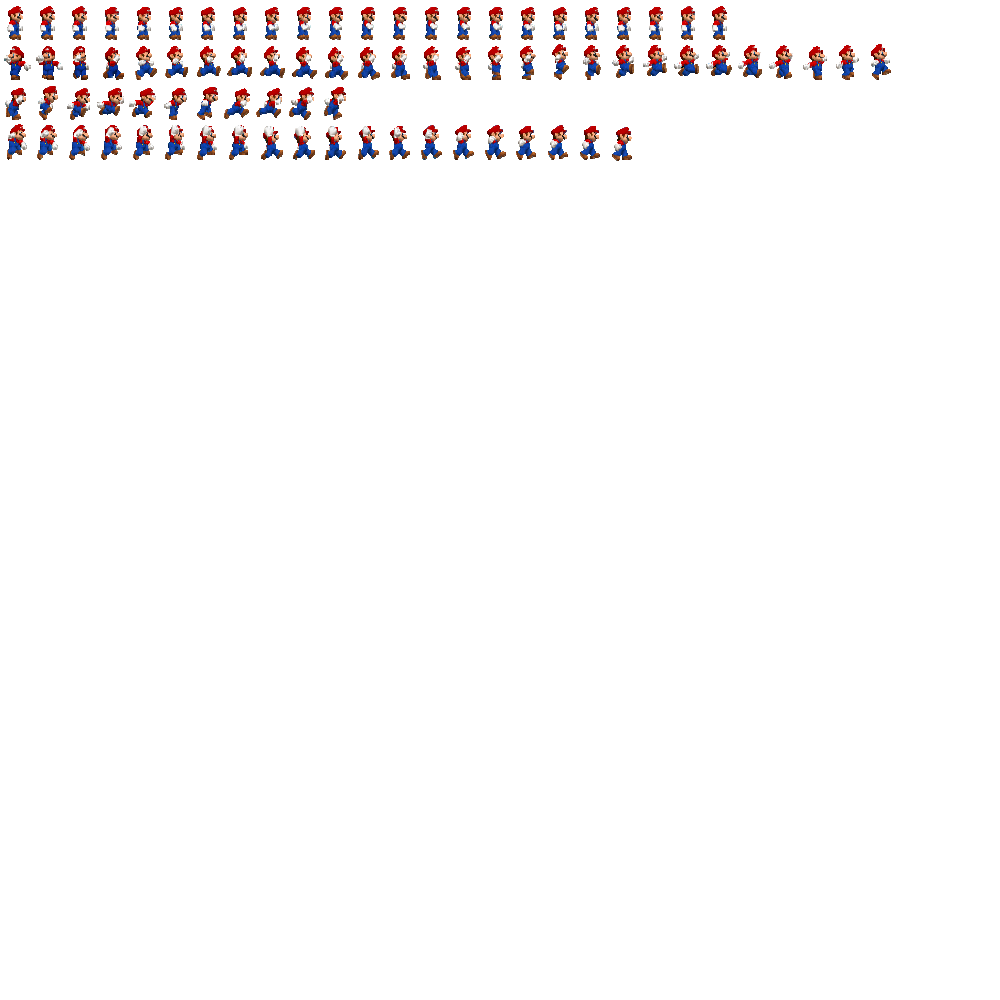
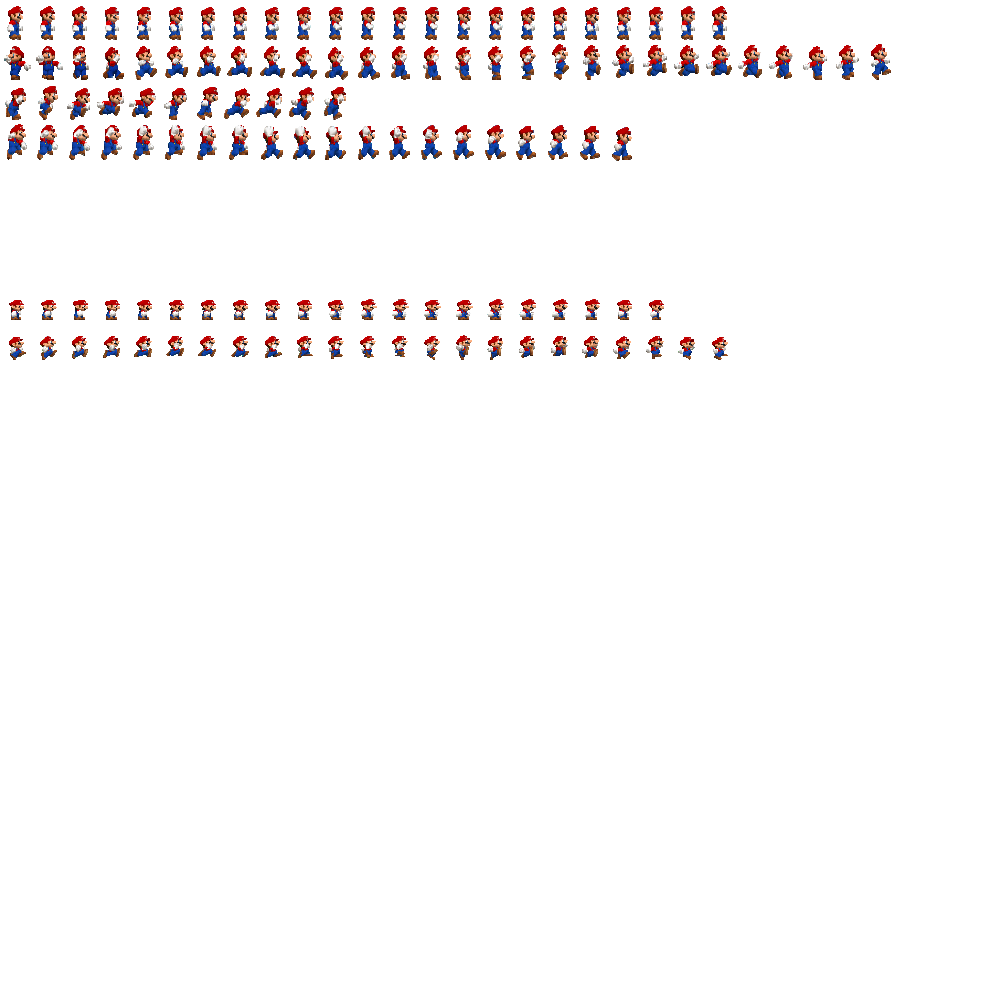
small mario

Changed region(s): [[0.0, 0.279, 0.744, 0.372]]

diff --git a/newSuperMario/Main_state.py b/newSuperMario/Main_state.py
@@ -44,6 +44,8 @@ class hero:
     t = 0.0
     ga = 0.1
     size = [64, 80]
+    grow = 0
+
 
     def __init__(self,x, y):
         self.x = x
@@ -63,31 +65,62 @@ class hero:
 
 
                     # 프레임
-        if self.framedir == 0:
-            if self.fs == fs_deel:
-                self.frame = self.frame + 1
-            if self.status != 0:
-                if self.frame > 19:
-                    self.frame = 19
+        if self.grow == 1:
+            if self.framedir == 0:
+                if self.fs == fs_deel:
+                    self.frame = self.frame + 1
+                if self.status != 0:
+                    if self.frame > 19:
+                        self.frame = 19
 
-            elif self.dir == -1 or self.dir == 1:  # 나머지 프레임
-                if self.frame > 10 and self.xspeed == 3.0:
+                elif self.dir == -1 or self.dir == 1:  # 나머지 프레임
+                    if self.frame > 10 and self.xspeed == 3.0:
+                        self.frame = 0
+                        self.framedir = 0
+
+                    if self.frame > 27:
+                        self.frame = 4
+                        self.framedir = 0
+                elif self.dir == 0 and self.status == 0:
+                    if self.frame > 22:  # 정지 프레임
+                        self.frame = 22
+                        self.framedir = 1
+            else:
+                if self.fs == fs_deel:
+                    self.frame = self.frame - 1
+                if self.frame <= 0:
+                    self.frame = 0
+                    self.framedir = 0
+        elif self.grow == 0:
+            if self.framedir == 0:
+                if self.fs == fs_deel:
+                    self.frame = self.frame + 1
+                if self.status != 0:
+                    if self.frame > 19:
+                        self.frame = 19
+
+                elif self.dir == -1 or self.dir == 1:  # 나머지 프레임
+                    if self.frame > 10 and self.xspeed == 3.0:
+                        self.frame = 0
+                        self.framedir = 0
+
+                    if self.frame > 27:
+                        self.frame = 4
+                        self.framedir = 0
+                elif self.dir == 0 and self.status == 0:
+                    if self.frame > 20:  # 정지 프레임
+                        self.frame = 0
+                        self.framedir = 0
+            else:
+                if self.fs == fs_deel:
+                    self.frame = self.frame - 1
+                if self.frame <= 0:
                     self.frame = 0
                     self.framedir = 0
 
-                if self.frame > 27:
-                    self.frame = 4
-                    self.framedir = 0
-            elif self.dir == 0 and self.status == 0:
-                if self.frame > 22:  # 정지 프레임
-                    self.frame = 22
-                    self.framedir = 1
-        else:
-            if self.fs == fs_deel:
-                self.frame = self.frame - 1
-            if self.frame <= 0:
-                self.frame = 0
-                self.framedir = 0
+
+
+
         self.fs = self.fs + 1
         if self.fs > fs_deel:
             self.fs = 0
@@ -95,34 +128,81 @@ class hero:
         self.move()
 
     def draw(self):
-        if self.status != 0: # 점프 등의 특수 상태
 
-
-           if self.dir == 0:  # 정지
-               if self.herodir == 1:
-                   Mario_image.clip_draw(self.frame * 32, 1000 - 4 * 40, 32, 40, self.x, self.y, self.size[0],self.size[1] )
-               else:
-                   Mario_image.clip_composite_draw(self.frame * 32, 1000 - 4 * 40, 32, 40, 0, 'h', self.x, self.y, self.size[0],self.size[1])
-           if self.dir == 1:
-               Mario_image.clip_draw(self.frame * 32, 1000 - 4 * 40, 32, 40, self.x, self.y, self.size[0],self.size[1])
-           elif self.dir == -1:
-               Mario_image.clip_composite_draw(self.frame * 32, 1000 - 4 * 40, 32, 40, 0, 'h', self.x, self.y, self.size[0],self.size[1])
-        else: # 기본 이동 스프라이트
-           if self.dir == 0:  # 정지
-               if self.herodir == 1:
-                   Mario_image.clip_draw(self.frame * 32, 1000 - 1 * 40, 32, 40, self.x, self.y, self.size[0],self.size[1])
-               else:
-                   Mario_image.clip_composite_draw(self.frame * 32, 1000 - 1 * 40, 32, 40, 0, 'h', self.x, self.y, self.size[0],self.size[1])
-           elif self.dir == 1:  # 오른쪽 걸음
-               if self.xspeed == 3.0:
-                   Mario_image.clip_draw(self.frame * 32, 1000 - 3 * 40, 32, 40, self.x, self.y, self.size[0],self.size[1])
-               else:
-                   Mario_image.clip_draw(self.frame * 32, 1000 - 2 * 40, 32, 40, self.x, self.y, self.size[0],self.size[1])
-           elif self.dir == -1:  # 왼쪽 걸음
-               if self.xspeed == 3.0:
-                   Mario_image.clip_composite_draw(self.frame * 32, 1000 - 3 * 40, 32, 40, 0, 'h', self.x, self.y,self.size[0], self.size[1])
-               else:
-                   Mario_image.clip_composite_draw(self.frame * 32, 1000 - 2 * 40, 32, 40, 0, 'h', self.x, self.y, self.size[0],self.size[1])
+        if self.grow == 1: # 성장 후
+            if self.status != 0:  # 점프 등의 특수 상태
+                if self.dir == 0:  # 정지
+                    if self.herodir == 1:
+                        Mario_image.clip_draw(self.frame * 32, 1000 - 4 * 40, 32, 40, self.x, self.y, self.size[0],
+                                              self.size[1])
+                    else:
+                        Mario_image.clip_composite_draw(self.frame * 32, 1000 - 4 * 40, 32, 40, 0, 'h', self.x, self.y,
+                                                        self.size[0], self.size[1])
+                if self.dir == 1:
+                    Mario_image.clip_draw(self.frame * 32, 1000 - 4 * 40, 32, 40, self.x, self.y, self.size[0],
+                                          self.size[1])
+                elif self.dir == -1:
+                    Mario_image.clip_composite_draw(self.frame * 32, 1000 - 4 * 40, 32, 40, 0, 'h', self.x, self.y,
+                                                    self.size[0], self.size[1])
+            else:  # 기본 이동 스프라이트
+                if self.dir == 0:  # 정지
+                    if self.herodir == 1:
+                        Mario_image.clip_draw(self.frame * 32, 1000 - 1 * 40, 32, 40, self.x, self.y, self.size[0],
+                                              self.size[1])
+                    else:
+                        Mario_image.clip_composite_draw(self.frame * 32, 1000 - 1 * 40, 32, 40, 0, 'h', self.x, self.y,
+                                                        self.size[0], self.size[1])
+                elif self.dir == 1:  # 오른쪽 걸음
+                    if self.xspeed == 3.0:
+                        Mario_image.clip_draw(self.frame * 32, 1000 - 3 * 40, 32, 40, self.x, self.y, self.size[0],
+                                              self.size[1])
+                    else:
+                        Mario_image.clip_draw(self.frame * 32, 1000 - 2 * 40, 32, 40, self.x, self.y, self.size[0],
+                                              self.size[1])
+                elif self.dir == -1:  # 왼쪽 걸음
+                    if self.xspeed == 3.0:
+                        Mario_image.clip_composite_draw(self.frame * 32, 1000 - 3 * 40, 32, 40, 0, 'h', self.x, self.y,
+                                                        self.size[0], self.size[1])
+                    else:
+                        Mario_image.clip_composite_draw(self.frame * 32, 1000 - 2 * 40, 32, 40, 0, 'h', self.x, self.y,
+                                                        self.size[0], self.size[1])
+        elif self.grow == 0: # 성장 전
+            if self.status != 0:  # 점프 등의 특수 상태
+                if self.dir == 0:  # 정지
+                    if self.herodir == 1:
+                        Mario_image.clip_draw(self.frame * 32, 1000 - 4 * 40, 32, 40, self.x, self.y, self.size[0],
+                                              self.size[1])
+                    else:
+                        Mario_image.clip_composite_draw(self.frame * 32, 1000 - 4 * 40, 32, 40, 0, 'h', self.x, self.y,
+                                                        self.size[0], self.size[1])
+                if self.dir == 1:
+                    Mario_image.clip_draw(self.frame * 32, 1000 - 4 * 40, 32, 40, self.x, self.y, self.size[0],
+                                          self.size[1])
+                elif self.dir == -1:
+                    Mario_image.clip_composite_draw(self.frame * 32, 1000 - 4 * 40, 32, 40, 0, 'h', self.x, self.y,
+                                                    self.size[0], self.size[1])
+            else:  # 기본 이동 스프라이트
+                if self.dir == 0:  # 정지
+                    if self.herodir == 1:
+                        Mario_image.clip_draw(self.frame * 32, 1000 - 8 * 40, 32, 40, self.x, self.y, self.size[0],
+                                              self.size[1])
+                    else:
+                        Mario_image.clip_composite_draw(self.frame * 32, 1000 - 8 * 40, 32, 40, 0, 'h', self.x, self.y,
+                                                        self.size[0], self.size[1])
+                elif self.dir == 1:  # 오른쪽 걸음
+                    if self.xspeed == 3.0:
+                        Mario_image.clip_draw(self.frame * 32, 1000 - 3 * 40, 32, 40, self.x, self.y, self.size[0],
+                                              self.size[1])
+                    else:
+                        Mario_image.clip_draw(self.frame * 32, 1000 - 2 * 40, 32, 40, self.x, self.y, self.size[0],
+                                              self.size[1])
+                elif self.dir == -1:  # 왼쪽 걸음
+                    if self.xspeed == 3.0:
+                        Mario_image.clip_composite_draw(self.frame * 32, 1000 - 3 * 40, 32, 40, 0, 'h', self.x, self.y,
+                                                        self.size[0], self.size[1])
+                    else:
+                        Mario_image.clip_composite_draw(self.frame * 32, 1000 - 2 * 40, 32, 40, 0, 'h', self.x, self.y,
+                                                        self.size[0], self.size[1])
 
     def move(self):
         if self.status == 1: # 상승
